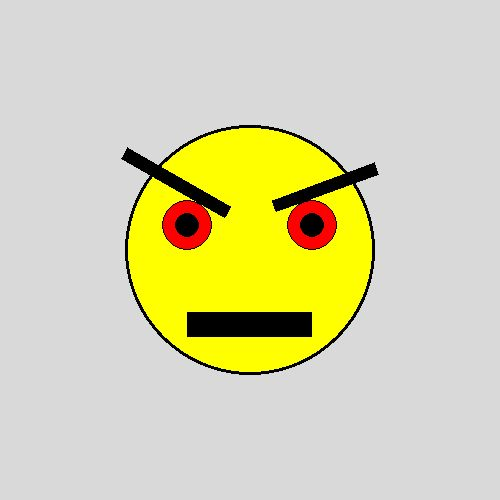
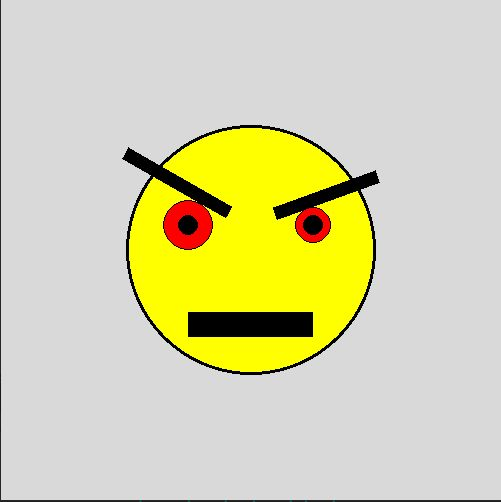
Pictures at an Exhibition 1. Task 1. Final edition

diff --git a/7_pictures_1/1.py b/7_pictures_1/1.py
@@ -62,17 +62,18 @@ circle(screen, BLACK,
 
 # Глаза
 eye1_apple_x = center_x - 0.5 * radius
+eye1_radis = 0.2 * radius
 eye2_apple_x = center_x + 0.5 * radius
+eye2_radis = 0.15 * radius
 eye_apple_y = center_y - 0.2 * radius
-eye_apple_radius = 0.1 * radius
-eye_radis = 0.2 * radius
+eye_apple_radius = 0.08 * radius
 eye_color = RED
 eye_apple_color = BLACK
 
 draw_eye(screen, eye_color, eye_apple_color, (eye1_apple_x, eye_apple_y),
-        eye_radis, eye_apple_radius)
+        eye1_radis, eye_apple_radius)
 draw_eye(screen, eye_color, eye_apple_color, (eye2_apple_x, eye_apple_y),
-        eye_radis, eye_apple_radius)
+        eye2_radis, eye_apple_radius)
 
 # Рот
 mouth_left_x = eye1_apple_x
@@ -92,7 +93,7 @@ eyebrow1_to_axis_x_angle_grads = -30
 
 eyebrow2_length = 0.87 * radius
 eyebrow2_to_axis_x_angle_grads = 20
-eyebrow2_top_left_coords = center_x + 0.18 * radius, center_y - 0.40 * radius
+eyebrow2_top_left_coords = center_x + 0.18 * radius, center_y - 0.34 * radius
 
 draw_inclined_rect(screen, BLACK, eyebrow1_top_left_coords,
         eyebrow1_to_axis_x_angle_grads, eyebrow1_length, eyebrow_width)
